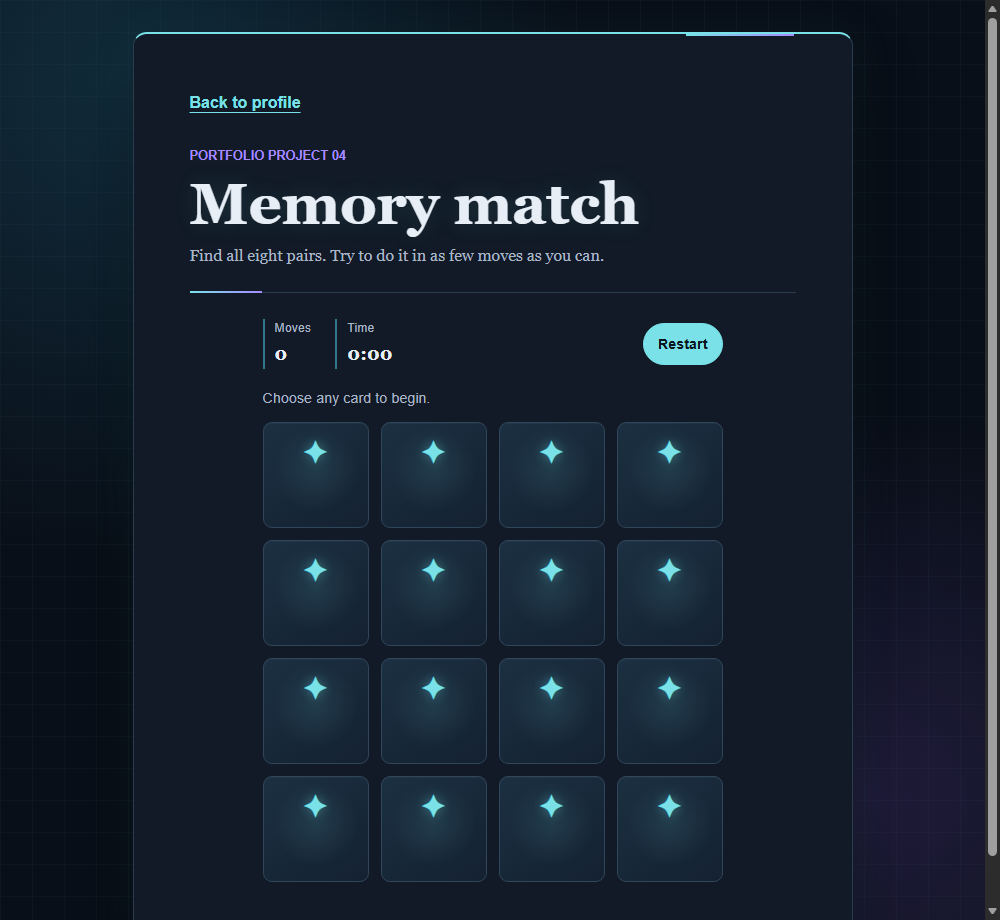
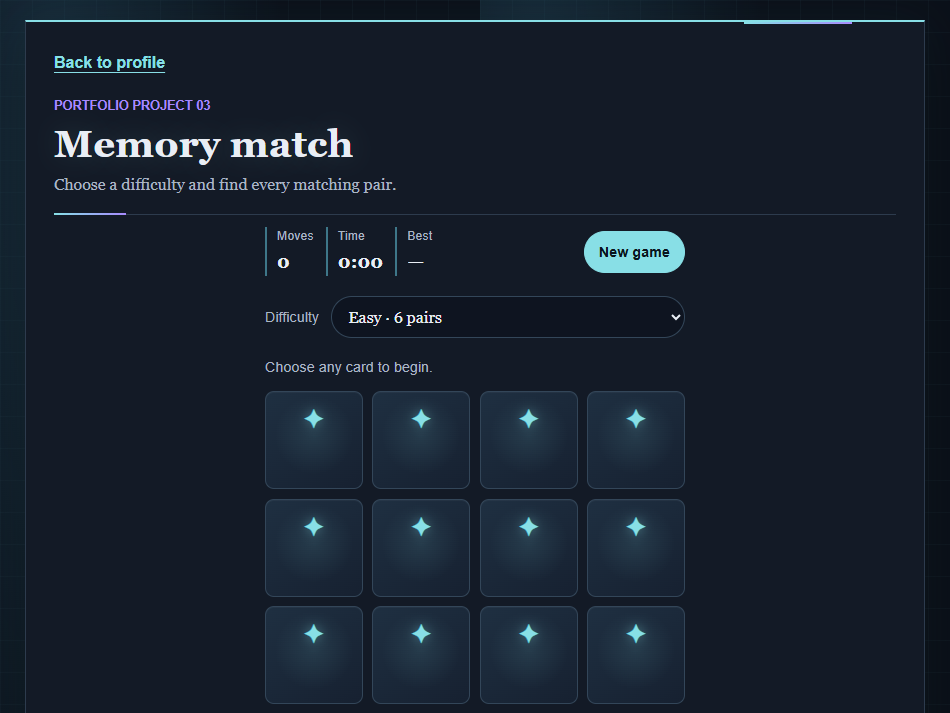
Add files via upload

diff --git a/memory-game.js b/memory-game.js
@@ -7,6 +7,10 @@ const cardFaces = [
   { value: "art", symbol: "🎨", label: "Palette" },
   { value: "battery", symbol: "🔋", label: "Battery" },
   { value: "moon", symbol: "🌙", label: "Crescent moon" },
+  { value: "sun", symbol: "☀", label: "Sun" },
+  { value: "star", symbol: "⭐", label: "Star" },
+  { value: "cloud", symbol: "☁", label: "Cloud" },
+  { value: "fire", symbol: "🔥", label: "Flame" },
 ];
 
 const gameBoard = document.querySelector("#game-board");
@@ -14,6 +18,18 @@ const moveCount = document.querySelector("#move-count");
 const timerDisplay = document.querySelector("#timer");
 const gameStatus = document.querySelector("#game-status");
 const restartButton = document.querySelector("#restart-button");
+const difficultySelect = document.querySelector("#difficulty-select");
+const bestScoreDisplay = document.querySelector("#best-score");
+const winPanel = document.querySelector("#win-panel");
+const winMessage = document.querySelector("#win-message");
+const bestMessage = document.querySelector("#best-message");
+const playAgainButton = document.querySelector("#play-again-button");
+
+const difficulties = {
+  easy: { pairs: 6, columns: 4 },
+  medium: { pairs: 8, columns: 4 },
+  hard: { pairs: 12, columns: 6 },
+};
 
 let firstCard = null;
 let lockBoard = false;
@@ -22,6 +38,8 @@ let moves = 0;
 let secondsElapsed = 0;
 let timerInterval = null;
 let mismatchTimeout = null;
+let gameFinished = false;
+let activePairCount = difficulties[difficultySelect.value].pairs;
 
 function formatTime(seconds) {
   const minutes = Math.floor(seconds / 60);
@@ -68,8 +86,73 @@ function updateTimer() {
 function finishGame() {
   window.clearInterval(timerInterval);
   timerInterval = null;
+  gameFinished = true;
+  const difficulty = difficultySelect.value;
+  const previousBest = getBestScore(difficulty);
+  const isNewBest =
+    previousBest === null ||
+    moves < previousBest.moves ||
+    (moves === previousBest.moves && secondsElapsed < previousBest.seconds);
+  const score = { moves, seconds: secondsElapsed };
+  let savedNewBest = true;
+
+  if (isNewBest) {
+    savedNewBest = saveBestScore(difficulty, score);
+  }
+
   gameStatus.textContent =
-    `You found all eight pairs in ${moves} moves and ${formatTime(secondsElapsed)}. Nice work!`;
+    `Board cleared in ${moves} moves and ${formatTime(secondsElapsed)}.`;
+  winMessage.textContent =
+    `${difficultySelect.options[difficultySelect.selectedIndex].text.split(" · ")[0]}: ${moves} moves in ${formatTime(secondsElapsed)}.`;
+  bestMessage.textContent = !savedNewBest
+    ? "Could not save your new personal best in this browser."
+    : isNewBest
+      ? "New personal best!"
+    : `Best: ${previousBest.moves} moves in ${formatTime(previousBest.seconds)}.`;
+  winPanel.hidden = false;
+  updateBestScore();
+}
+
+function getBestScore(difficulty) {
+  try {
+    const savedScore = localStorage.getItem(`memoryGameBest:${difficulty}`);
+    if (!savedScore) {
+      return null;
+    }
+
+    const score = JSON.parse(savedScore);
+    if (
+      !Number.isInteger(score.moves) ||
+      score.moves < 1 ||
+      !Number.isInteger(score.seconds) ||
+      score.seconds < 0
+    ) {
+      throw new Error("Saved best score is not valid.");
+    }
+    return score;
+  } catch (error) {
+    gameStatus.textContent = "Could not read saved best scores in this browser.";
+    return null;
+  }
+}
+
+function saveBestScore(difficulty, score) {
+  try {
+    localStorage.setItem(
+      `memoryGameBest:${difficulty}`,
+      JSON.stringify(score),
+    );
+    return true;
+  } catch (error) {
+    return false;
+  }
+}
+
+function updateBestScore() {
+  const bestScore = getBestScore(difficultySelect.value);
+  bestScoreDisplay.textContent = bestScore
+    ? `${bestScore.moves} · ${formatTime(bestScore.seconds)}`
+    : "—";
 }
 
 function handleCardClick(event) {
@@ -78,6 +161,7 @@ function handleCardClick(event) {
   if (
     selectedCard === null ||
     lockBoard ||
+    gameFinished ||
     selectedCard === firstCard ||
     selectedCard.classList.contains("is-matched") ||
     selectedCard.classList.contains("is-flipped")
@@ -115,10 +199,12 @@ function handleCardClick(event) {
     firstCard = null;
     matchedPairs += 1;
 
-    if (matchedPairs === cardFaces.length) {
+    if (matchedPairs === activePairCount) {
       finishGame();
     } else {
-      gameStatus.textContent = `Match found! ${cardFaces.length - matchedPairs} pairs left.`;
+      gameStatus.textContent = `Match found! ${
+        activePairCount - matchedPairs
+      } pairs left.`;
     }
 
     return;
@@ -149,16 +235,24 @@ function startGame() {
   matchedPairs = 0;
   moves = 0;
   secondsElapsed = 0;
+  gameFinished = false;
   moveCount.textContent = "0";
   updateTimer();
+  updateBestScore();
   gameStatus.textContent = "Choose any card to begin.";
+  winPanel.hidden = true;
 
+  const difficulty = difficulties[difficultySelect.value];
+  activePairCount = difficulty.pairs;
+  const selectedFaces = cardFaces.slice(0, difficulty.pairs);
   const cards = shuffle(
-    cardFaces.flatMap(function (face) {
+    selectedFaces.flatMap(function (face) {
       return [face, face];
     }),
   );
 
+  gameBoard.style.setProperty("--columns", difficulty.columns);
+  gameBoard.setAttribute("aria-label", `${cards.length} memory cards`);
   gameBoard.replaceChildren(
     ...cards.map(function (face, index) {
       return createCard(face, index);
@@ -168,4 +262,6 @@ function startGame() {
 
 gameBoard.addEventListener("click", handleCardClick);
 restartButton.addEventListener("click", startGame);
+playAgainButton.addEventListener("click", startGame);
+difficultySelect.addEventListener("change", startGame);
 startGame();

diff --git a/memory-game.css b/memory-game.css
@@ -101,7 +101,7 @@ h1 {
 }
 
 .game {
-  max-width: 460px;
+  max-width: 520px;
   margin: 26px auto 0;
 }
 
@@ -114,7 +114,8 @@ h1 {
 
 .game-stats {
   display: flex;
-  gap: 24px;
+  flex-wrap: wrap;
+  gap: 16px 24px;
   margin: 0;
 }
 
@@ -134,6 +135,31 @@ h1 {
   font-size: 1.15rem;
   font-weight: bold;
   font-variant-numeric: tabular-nums;
+}
+
+.difficulty-control {
+  display: grid;
+  grid-template-columns: auto minmax(0, 1fr);
+  align-items: center;
+  gap: 12px;
+  margin-top: 20px;
+}
+
+.difficulty-control label {
+  color: var(--muted);
+  font-family: Arial, sans-serif;
+  font-size: 0.9rem;
+}
+
+.difficulty-control select {
+  min-height: 42px;
+  padding: 8px 12px;
+  color: var(--ink);
+  color-scheme: dark;
+  background: #0c1420;
+  border: 1px solid #30465a;
+  border-radius: 999px;
+  font: inherit;
 }
 
 button {
@@ -165,7 +191,7 @@ button:hover {
 
 .game-board {
   display: grid;
-  grid-template-columns: repeat(4, minmax(0, 1fr));
+  grid-template-columns: repeat(var(--columns, 4), minmax(0, 1fr));
   gap: clamp(8px, 2vw, 12px);
 }
 
@@ -219,8 +245,40 @@ button:hover {
   opacity: 1;
 }
 
+.win-panel {
+  padding: 20px;
+  margin-top: 20px;
+  text-align: center;
+  background:
+    radial-gradient(circle at top, rgba(121, 225, 231, 0.13), transparent 70%),
+    #142331;
+  border: 1px solid #32788a;
+  border-radius: 12px;
+  box-shadow: 0 0 28px rgba(73, 195, 208, 0.1);
+}
+
+.win-panel[hidden] {
+  display: none;
+}
+
+.win-panel h2 {
+  margin: 0 0 8px;
+  color: var(--accent-bright);
+}
+
+.win-panel p {
+  margin: 6px 0;
+  color: var(--muted);
+  font-family: Arial, sans-serif;
+}
+
+.win-panel button {
+  margin-top: 12px;
+}
+
 button:focus-visible,
-a:focus-visible {
+a:focus-visible,
+select:focus-visible {
   outline: 3px solid var(--violet);
   outline-offset: 3px;
 }
@@ -233,6 +291,10 @@ a:focus-visible {
   .game-shell {
     min-height: 100vh;
     border-radius: 0;
+  }
+
+  .game-stats {
+    gap: 12px;
   }
 }
 

diff --git a/memory-game.html b/memory-game.html
@@ -16,9 +16,9 @@
       <a class="back-link" href="index.html">Back to profile</a>
 
       <header class="page-heading">
-        <p class="eyebrow">Portfolio project 04</p>
+        <p class="eyebrow">Portfolio project 03</p>
         <h1>Memory match</h1>
-        <p>Find all eight pairs. Try to do it in as few moves as you can.</p>
+        <p>Choose a difficulty and find every matching pair.</p>
       </header>
 
       <section class="game" aria-label="Memory matching game">
@@ -32,10 +32,23 @@
               <dt>Time</dt>
               <dd id="timer">0:00</dd>
             </div>
+            <div>
+              <dt>Best</dt>
+              <dd id="best-score">—</dd>
+            </div>
           </dl>
           <button id="restart-button" class="restart-button" type="button">
-            Restart
+            New game
           </button>
+        </div>
+
+        <div class="difficulty-control">
+          <label for="difficulty-select">Difficulty</label>
+          <select id="difficulty-select">
+            <option value="easy">Easy · 6 pairs</option>
+            <option value="medium" selected>Medium · 8 pairs</option>
+            <option value="hard">Hard · 12 pairs</option>
+          </select>
         </div>
 
         <p id="game-status" class="game-status" role="status" aria-live="polite">
@@ -45,8 +58,19 @@
           id="game-board"
           class="game-board"
           role="group"
-          aria-label="Sixteen cards"
+          aria-label="Memory cards"
         ></div>
+        <section
+          id="win-panel"
+          class="win-panel"
+          aria-labelledby="win-heading"
+          hidden
+        >
+          <h2 id="win-heading">Board cleared!</h2>
+          <p id="win-message"></p>
+          <p id="best-message"></p>
+          <button id="play-again-button" type="button">Play again</button>
+        </section>
       </section>
     </main>
   </body>

diff --git a/README.md b/README.md
@@ -61,9 +61,10 @@ A client-side GitHub browser that:
 ### 4. Memory match
 A browser-based matching game that lets the player:
 
-- find eight pairs of themed cards
+- choose between easy, medium, and hard boards
 - track moves and elapsed time
-- restart with a freshly shuffled board
+- compare personal bests for each difficulty
+- restart or play again with a freshly shuffled board
 
 ## Project structure
 
@@ -113,6 +114,8 @@ The site is published through GitHub Pages and uses direct static file hosting.
 - accessibility and responsive design
 - responsive CSS layouts
 - DOM manipulation with JavaScript
+- configurable game difficulty and adaptive board layouts
+- persistent per-difficulty best scores with tie-breaking
 - combining search, filters, sorting, and derived task summaries
 - managing game state and timed interactions
 - browser storage with `localStorage`
